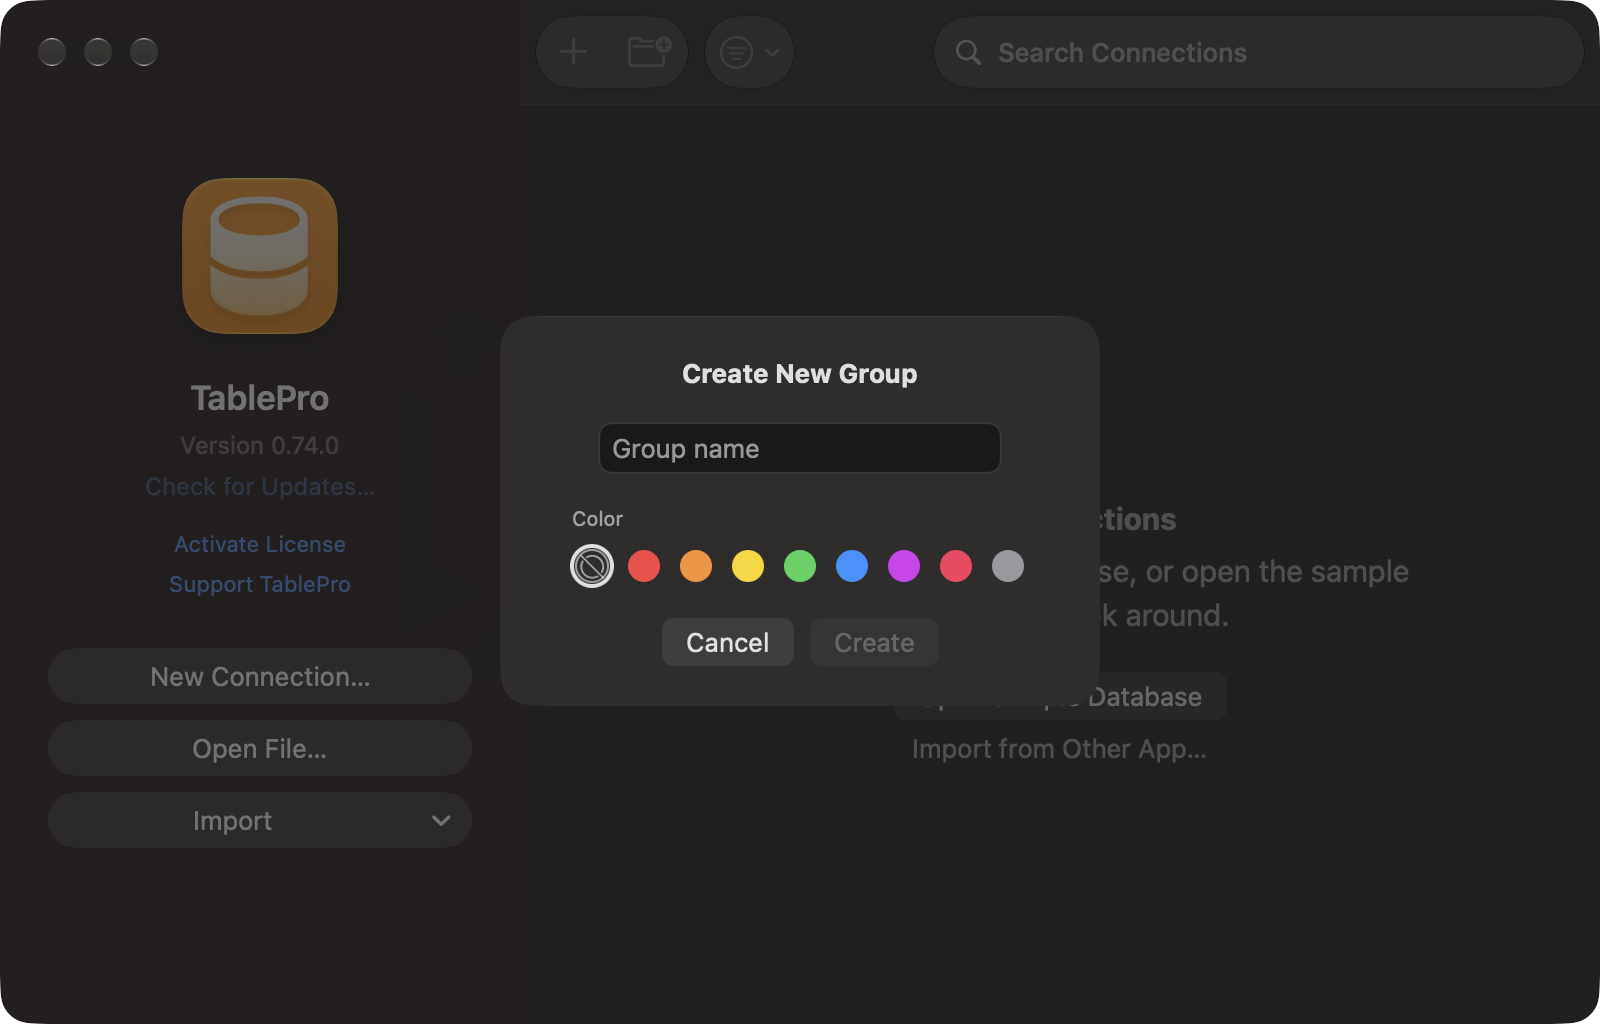
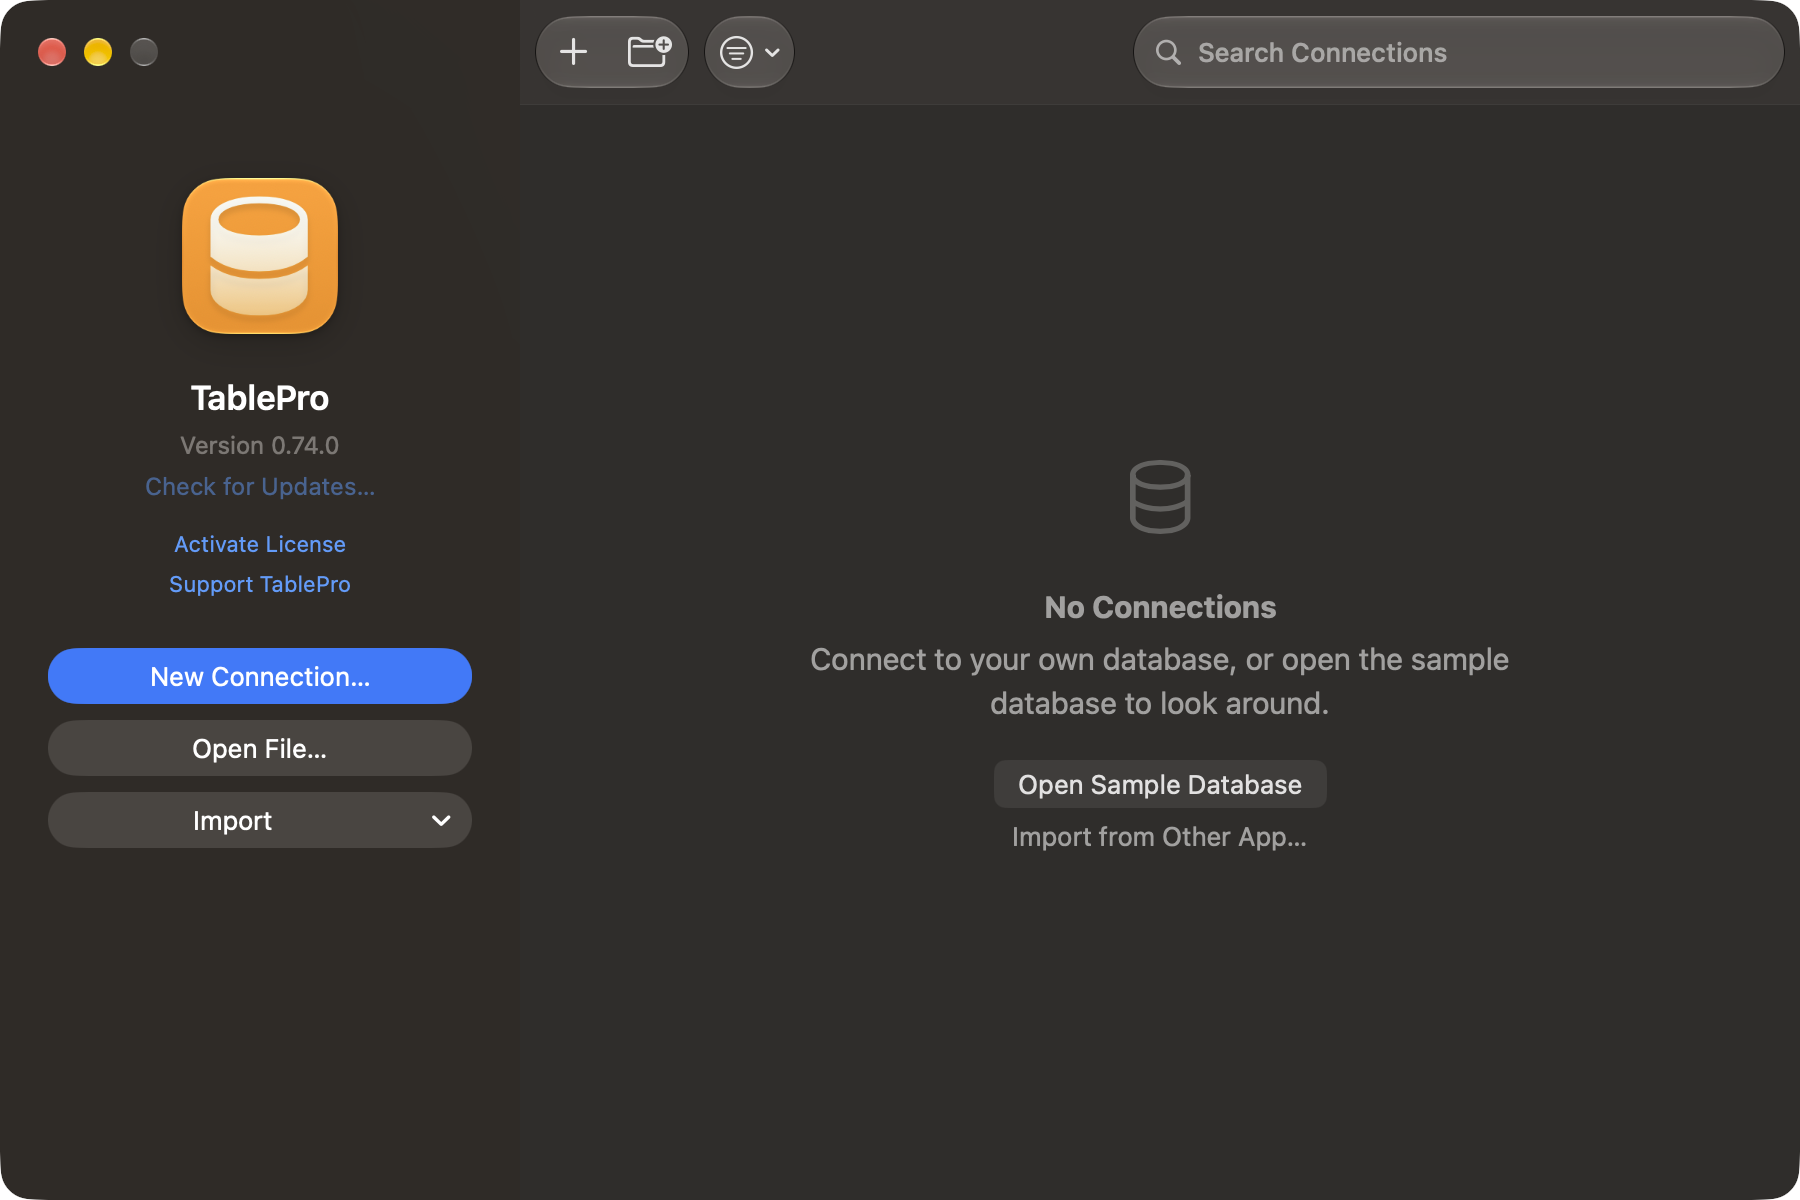
fix(welcome): give the welcome window one fixed size instead of a resizable frame (#2868)
Claude-Session: https://claude.ai/code/session_01Dn3LfZzmmnwaBaZw6Jmtou

diff --git a/TablePro/Views/Welcome/WelcomeWindowController.swift b/TablePro/Views/Welcome/WelcomeWindowController.swift
@@ -9,8 +9,7 @@ import TableProConnectionLibrary
 
 @MainActor
 internal final class WelcomeWindowController: NSWindowController, NSWindowDelegate {
-    private static let defaultContentSize = NSSize(width: 860, height: 540)
-    internal static let minimumContentSize = NSSize(width: 720, height: 460)
+    internal static let contentSize = NSSize(width: 900, height: 600)
 
     internal static var frameAutosaveName: NSWindow.FrameAutosaveName {
         NSWindow.FrameAutosaveName(SplitViewAutosaveName.current(WindowIdentifier.welcome))
@@ -34,8 +33,8 @@ internal final class WelcomeWindowController: NSWindowController, NSWindowDelega
     private init(viewModel: WelcomeViewModel) {
         self.viewModel = viewModel
         let window = NSWindow(
-            contentRect: NSRect(origin: .zero, size: Self.defaultContentSize),
-            styleMask: [.titled, .closable, .miniaturizable, .resizable, .fullSizeContentView],
+            contentRect: NSRect(origin: .zero, size: Self.contentSize),
+            styleMask: [.titled, .closable, .miniaturizable, .fullSizeContentView],
             backing: .buffered,
             defer: false
         )
@@ -54,14 +53,15 @@ internal final class WelcomeWindowController: NSWindowController, NSWindowDelega
         window.toolbarStyle = .unified
 
         window.contentViewController = WelcomeSplitViewController(viewModel: viewModel)
-        window.contentMinSize = Self.minimumContentSize
+        window.contentMinSize = Self.contentSize
+        window.contentMaxSize = Self.contentSize
         super.init(window: window)
         window.delegate = self
 
         if !window.setFrameUsingName(Self.frameAutosaveName) {
-            window.setContentSize(Self.defaultContentSize)
             window.center()
         }
+        window.setContentSize(Self.contentSize)
     }
 
     @available(*, unavailable)
@@ -70,15 +70,6 @@ internal final class WelcomeWindowController: NSWindowController, NSWindowDelega
     }
 
     // MARK: - NSWindowDelegate
-
-    internal func windowDidResize(_ notification: Notification) {
-        guard let window, !window.inLiveResize else { return }
-        window.saveFrame(usingName: Self.frameAutosaveName)
-    }
-
-    internal func windowDidEndLiveResize(_ notification: Notification) {
-        window?.saveFrame(usingName: Self.frameAutosaveName)
-    }
 
     internal func windowDidMove(_ notification: Notification) {
         window?.saveFrame(usingName: Self.frameAutosaveName)

diff --git a/CHANGELOG.md b/CHANGELOG.md
@@ -35,7 +35,7 @@ and this project adheres to [Semantic Versioning](https://semver.org/spec/v2.0.0
 - Data grid top row held across a refresh, matched by primary key.
 - Data grid scroll reset to the first row on sort, filter and page change.
 - Schema picker lists system schemas last, in place of its Show System Schemas toggle. (#2832)
-- Resizable welcome window that remembers its size and position.
+- Welcome window at a fixed size, remembering where it sits on screen.
 - Welcome window list moved with the arrow keys instead of `Ctrl+J`, `Ctrl+K`, `Ctrl+H` and `Ctrl+L`.
 - Connection switcher lists Favorites, Recent and groups at every depth.
 - Connection rows without colored dots, on the Mac and on iOS.
